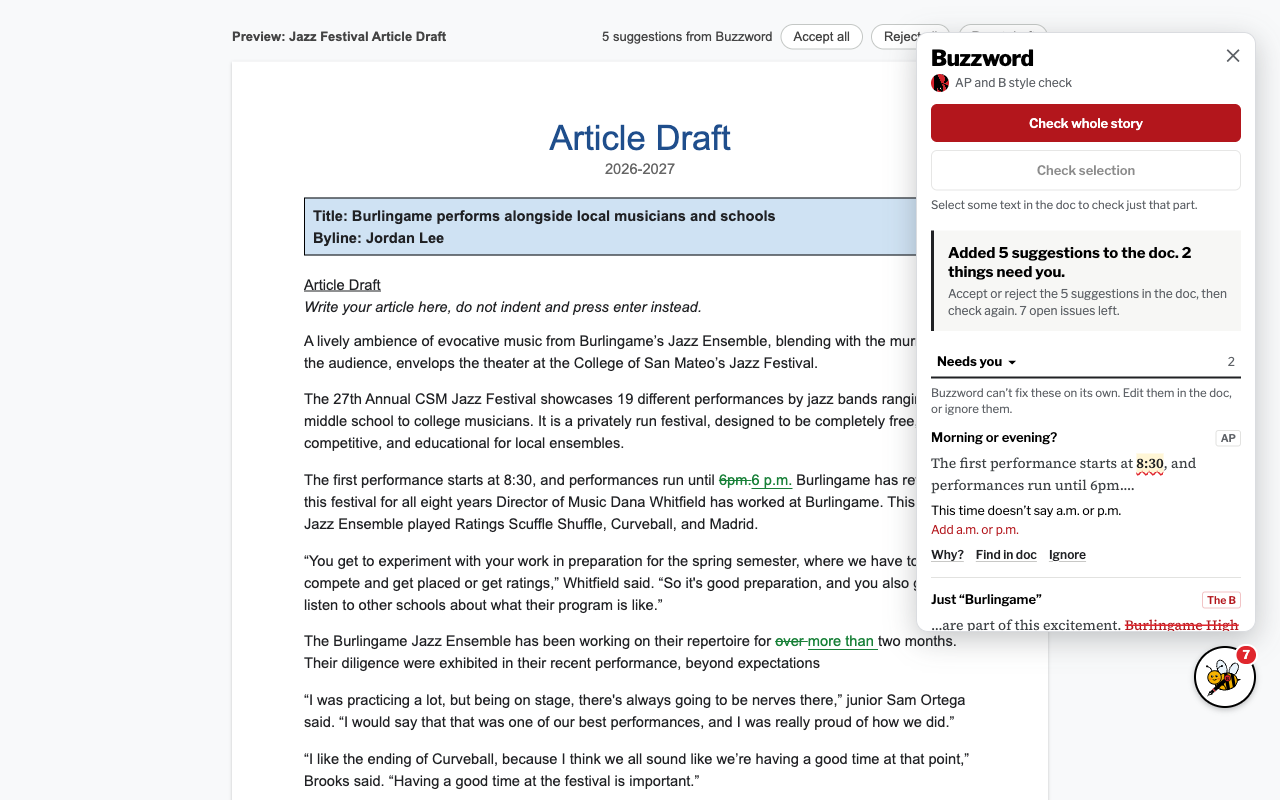
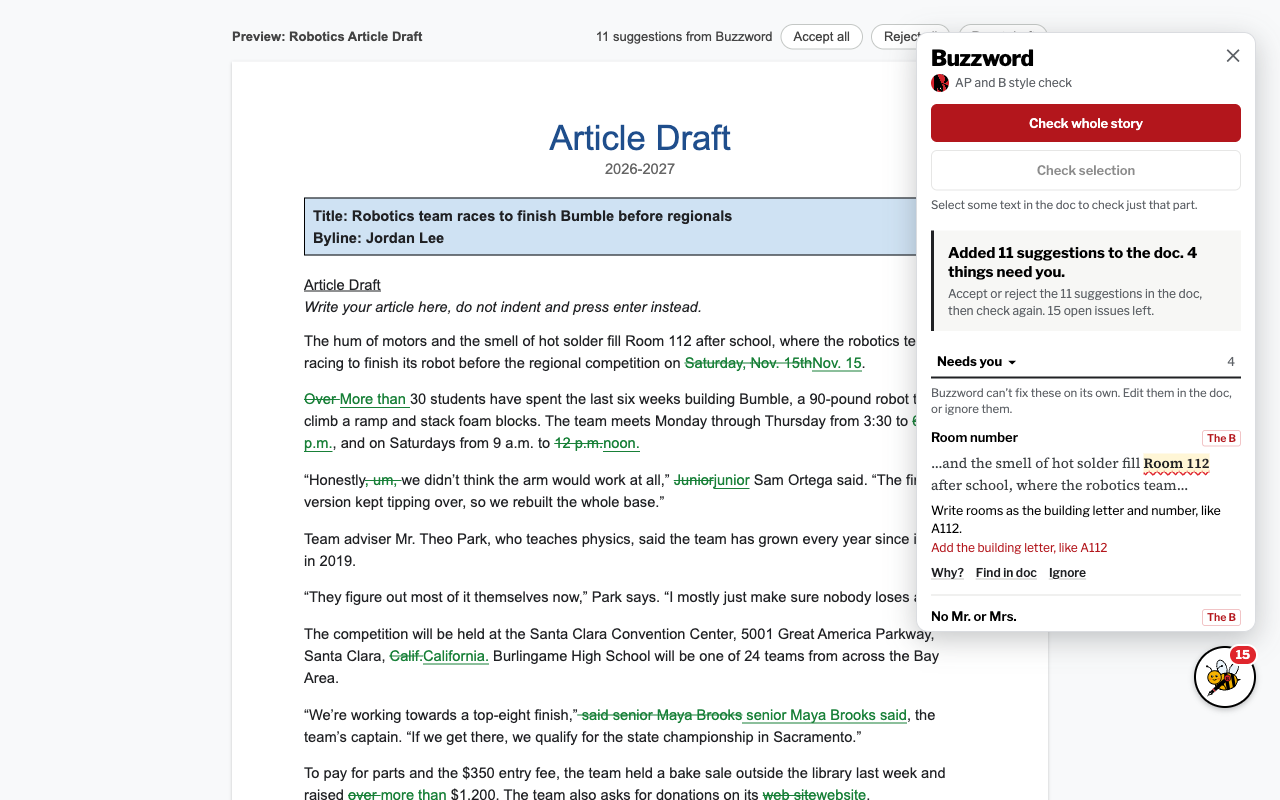
Update screenshot to the robotics draft and match page examples to it
Swap in the new store screenshot and update everything that described
the old one: the hero's sample draft, the screenshot alt text, and the
example suggestions and cards in "Two kinds of fixes".

diff --git a/index.html b/index.html
@@ -102,13 +102,13 @@
         </svg>
 
         <div class="draft">
-          <div class="draft-label"><span>Jazz Festival draft</span><span>Checked by Buzzword</span></div>
-          <p>The first performance starts at <span class="flag">8:30</span>, and performances run until <del>6pm</del><ins>6 p.m.</ins></p>
-          <p>The ensemble has been rehearsing for <del>over</del> <ins>more than</ins> two months, said junior Sam Ortega.</p>
+          <div class="draft-label"><span>Robotics draft</span><span>Checked by Buzzword</span></div>
+          <p>The hum of motors fills <span class="flag">Room 112</span> as the team races to finish its robot before the regional competition on <del>Saturday, Nov. 15th</del><ins>Nov. 15</ins>.</p>
+          <p><del>Over</del><ins>More than</ins> 30 students have spent the last six weeks building Bumble, said <del>Junior</del><ins>junior</ins> Sam Ortega.</p>
           <div class="draft-card">
-            <span class="tag">AP</span>
-            <strong>Morning or evening?</strong><br>
-            This time doesn't say a.m. or p.m. <span class="fix">Add a.m. or p.m.</span>
+            <span class="tag">The B</span>
+            <strong>Room number</strong><br>
+            Write rooms as the building letter and number. <span class="fix">Add the building letter, like A112</span>
             <div class="acts"><span>Why?</span><span>Find in doc</span><span>Ignore</span></div>
           </div>
         </div>
@@ -122,7 +122,7 @@
         <div class="shot">
           <div class="shot-bar" aria-hidden="true"><i></i><i></i><i></i></div>
           <img src="/assets/screenshot-1280x800.png" width="1280" height="800"
-               alt="A Google Docs article draft with the Buzzword panel open on the right. The doc shows green suggestions such as 6pm changed to 6 p.m. The panel says it added 5 suggestions and lists 2 things that need the writer, starting with a card titled Morning or evening.">
+               alt="A Google Docs article draft about a robotics team, with the Buzzword panel open on the right. The doc shows green suggestions such as Saturday, Nov. 15th changed to Nov. 15 and 12 p.m. changed to noon. The panel says it added 11 suggestions and lists 4 things that need the writer, starting with a card titled Room number.">
         </div>
         <figcaption>Buzzword adds safe fixes to the doc as suggestions and lists the rest in its panel. The names in this sample story are made up.</figcaption>
       </figure>
@@ -141,17 +141,18 @@
           <h3>Safe fixes become suggestions</h3>
           <p>Dates, times, numbers and state names that are always written one way get added as regular Google Docs suggestions. Accept or reject them like any other edit.</p>
           <ul class="swaps">
-            <li><del>6pm</del> <ins>6 p.m.</ins> <small>Times</small></li>
-            <li><del>November 24</del> <ins>Nov. 24</ins> <small>Dates</small></li>
+            <li><del>12 p.m.</del> <ins>noon</ins> <small>Times</small></li>
+            <li><del>Saturday, Nov. 15th</del> <ins>Nov. 15</ins> <small>Dates</small></li>
+            <li><del>Calif.</del> <ins>California</ins> <small>States</small></li>
           </ul>
         </article>
 
         <article class="kind kind-you">
           <h3>Judgment calls become cards</h3>
-          <p>If a fix depends on context, like whether 8:30 is morning or evening, Buzzword leaves your text alone. It adds a card to its panel with a short <strong>Why?</strong> note, a button to find the spot in your doc, and an option to ignore it.</p>
+          <p>If a fix depends on context, like a room number that's missing its building letter, Buzzword leaves your text alone. It adds a card to its panel with a short <strong>Why?</strong> note, a button to find the spot in your doc, and an option to ignore it.</p>
           <ul class="swaps">
-            <li>Times with no a.m. or p.m. <small>AP</small></li>
-            <li>"Burlingame High School" where just "Burlingame" will do <small>The B</small></li>
+            <li>Room numbers without a building letter <small>The B</small></li>
+            <li>Courtesy titles like Mr. or Mrs. <small>The B</small></li>
           </ul>
         </article>
       </div>
